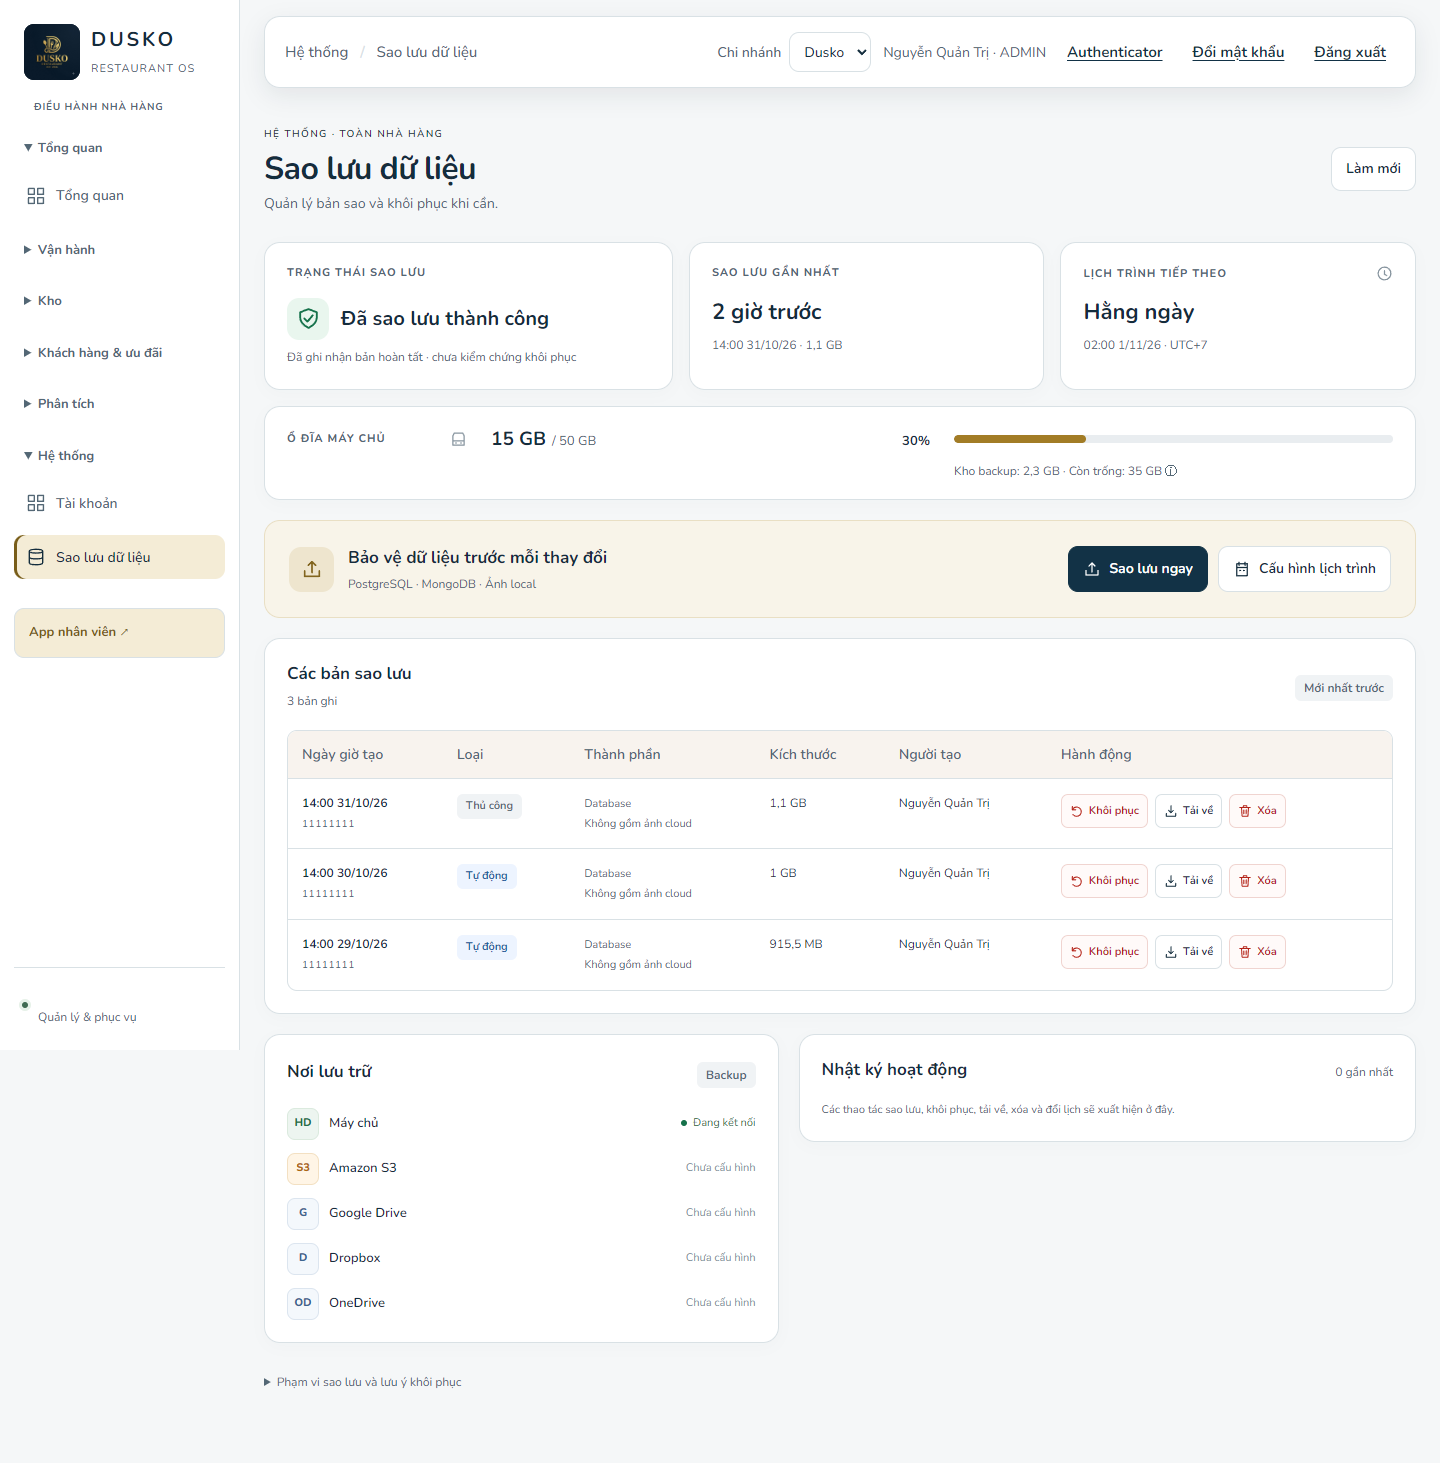
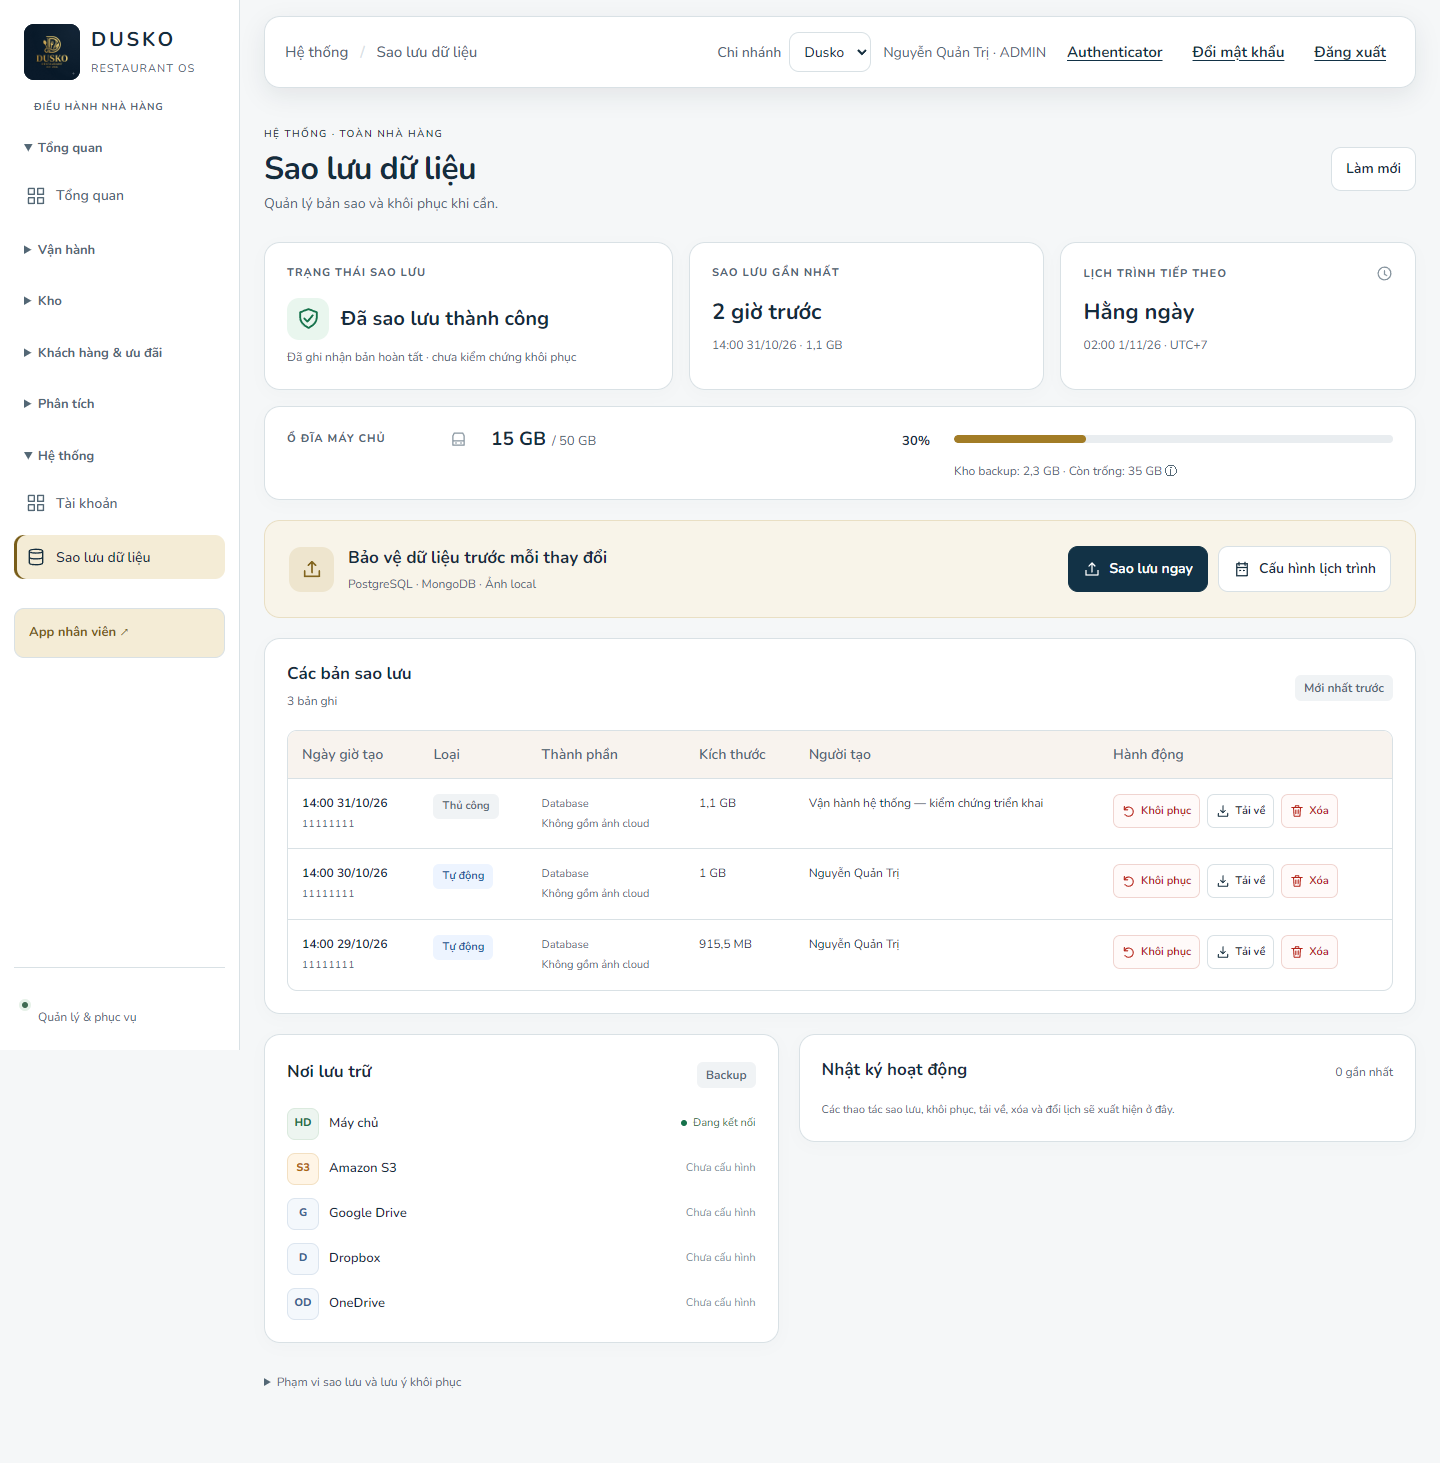
fix: wrap long backup operator names in responsive archive rows

diff --git a/src/backup-status.css b/src/backup-status.css
@@ -20,3 +20,5 @@
 @media(max-width:600px){.bk-card{padding:17px;border-radius:12px}.bk-overview{gap:10px}.bk-card-label{font-size:10px;margin-bottom:12px}.bk-value{font-size:18px}.bk-health-title h2{font-size:18px}.bk-card small{font-size:11px}.bk-storage{display:block}.bk-storage .bk-card-label{margin-bottom:12px}.bk-storage-numbers{margin-bottom:10px}.bk-storage small{margin-top:8px}.bk-quick{padding:17px;border-radius:12px;gap:17px}.bk-quick h2{font-size:15px}.bk-quick-icon{display:none}.bk-quick-buttons{display:grid;grid-template-columns:1fr;width:100%}.bk-quick-buttons .btn{width:100%;min-height:46px}.bk-heading{align-items:flex-start;gap:12px}.bk-heading h1{font-size:27px}.bk-heading>.btn{font-size:12px;min-height:38px;padding:8px 10px}.bk-running-head>div{gap:8px}.bk-running-head strong{font-size:13px}.bk-running-head>b{font-size:21px}.bk-archives .table-scroll{border:0;overflow:visible}.bk-archives table,.bk-archives tbody{display:block;min-width:0}.bk-archives thead{display:none}.bk-archives tr{display:block;padding:14px 0;border-bottom:1px solid var(--bk-line)}.bk-archives tr:first-child{padding-top:0}.bk-archives tr:last-child{padding-bottom:0;border-bottom:0}.bk-archives td{display:flex;gap:12px;justify-content:space-between;align-items:center;border:0;padding:7px 0;text-align:right}.bk-archives td:before{content:attr(data-label);text-align:left;color:var(--muted);font-size:11px;min-width:75px}.bk-archives td:first-child{flex-wrap:wrap}.bk-archive-id{display:none!important}.bk-archives td[data-label='Thành phần']{flex-wrap:wrap;gap:4px 12px}.bk-archives td[data-label='Thành phần'] .bk-component:last-child{margin-left:auto}.bk-archives td[data-label='Hành động']{display:block;padding-top:12px}.bk-archives td[data-label='Hành động']:before{display:none}.bk-row-actions{display:grid;grid-template-columns:1.25fr 1fr .7fr;gap:7px}.bk-action{font-size:11px;min-height:40px;padding:8px 5px}.bk-destination strong{font-size:12px}.bk-connection{font-size:10px}.bk-activity li{gap:8px}.bk-activity li .bk-badge{font-size:10px;padding:4px 6px}.bk-modal-fields{grid-template-columns:1fr}.backup-confirm .app-confirm__body{padding:22px}.backup-confirm .app-confirm__actions{flex-wrap:wrap}.backup-confirm .app-confirm__actions button{flex:1;min-height:44px}.bk-section-head h2{font-size:16px}}
 
 .backup-confirm .bk-ack>span{display:flex;gap:9px;align-items:flex-start;line-height:1.6;font-size:13px}.backup-confirm input[type=checkbox]{appearance:auto;width:16px!important;height:16px!important;min-height:0!important;padding:0;margin:3px 0 0;flex:none}
+
+.bk-archives td{white-space:normal}.bk-archives td[data-label="Người tạo"]{overflow-wrap:anywhere}
